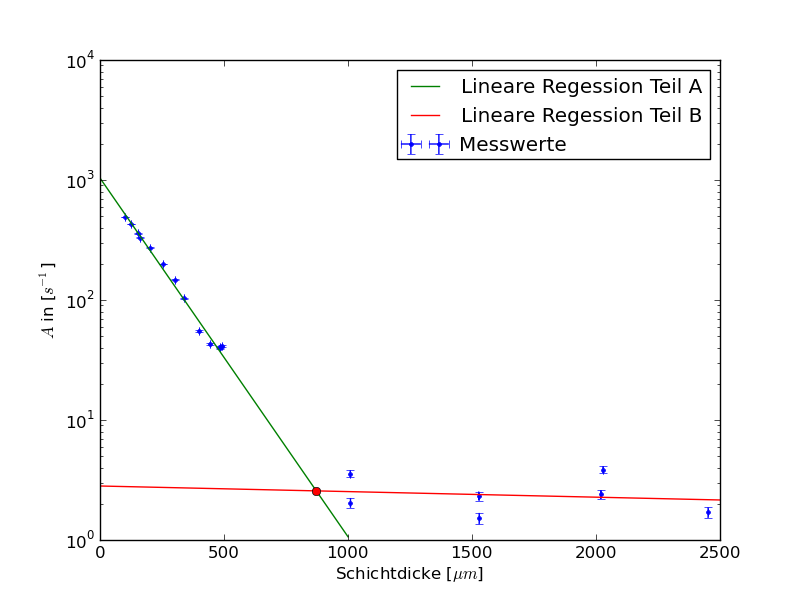
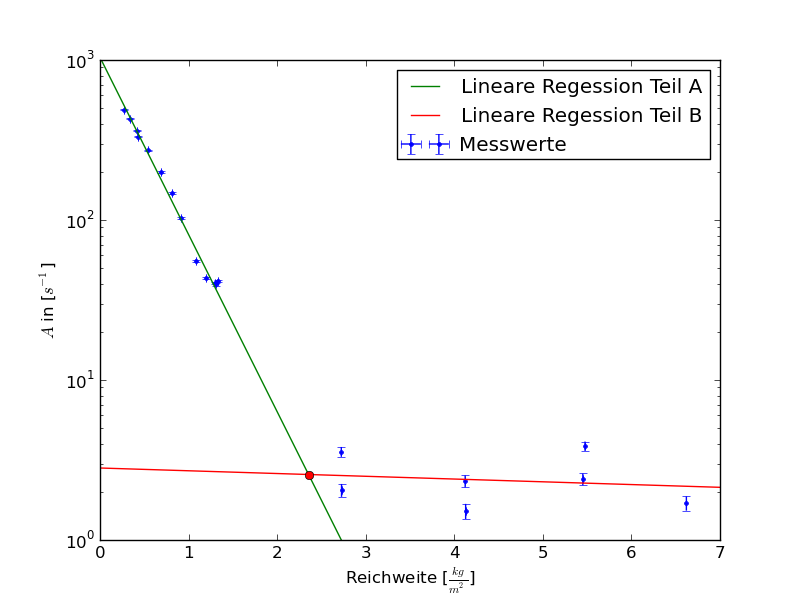
Korrektur

diff --git a/protokoll704.tex b/protokoll704.tex
@@ -40,7 +40,7 @@ germandbls={ß},
 \section{Einleitung}
 In diesem Versuch wird die Wechselwirkung energiereicher Strahlung mit Materie untersucht. Es wird $\gamma$-Strahlung als Beispiel für Photonenstrahlung und $\beta$-Strahlung als Beispiel für Teilchenstrahlung betrachtet.
 \section{Theorie}
-Während es bei der $\gamma$-Strahlung gelingt, ein allgemeingültiges exponentielles Absorptionsgesetz aufzustellen, ist die Wechselwirkung von $\beta$-Strahlung mit Materie zu vielfältig für eine einfache Gesetzmäßigkeit. Im Gegensatz zur $\gamma$-Strahlung treten bei den schnellen Elektronen meist eine Vielzahl von Wechselwirkungen auf, bis die gesamte kinetische Energie der Teilchen umgewandelt wurde. Ein allgemeingültiges Absorptionsgesetz für die $\gamma$-Strahlung zu formulieren ist für den Umfang dieses Versuches zu kompliziert. Stattdessen soll hier die sogenannte Reichweite mit einem einfachen Messverfahren untersucht werden.
+Während es bei der $\gamma$-Strahlung gelingt, ein allgemeingültiges exponentielles Absorptionsgesetz aufzustellen, ist die Wechselwirkung von $\beta$-Strahlung mit Materie zu vielfältig für eine einfache Gesetzmäßigkeit. Im Gegensatz zur $\gamma$-Strahlung treten bei den schnellen Elektronen meist eine Vielzahl von Wechselwirkungen auf, bis die gesamte kinetische Energie der Teilchen umgewandelt wurde. Ein allgemeingültiges Absorptionsgesetz für die $\beta$-Strahlung zu formulieren ist für den Umfang dieses Versuches nicht möglich Stattdessen soll hier die sogenannte Reichweite mit einem einfachen Messverfahren bestimmt werden.
 \subsection{$\gamma$-Strahlung}
 \subsubsection{Wirkungsquerschnitt und Absorptionsgesetz}
 Für die Betrachtung der $\gamma$-Strahlung muss zunächst der sogenannte Wirkungsquerschnitt definiert werden. \newline
@@ -72,11 +72,11 @@ Die Berechnung des Wirkungsquerschnittes mit
 \end{equation}
 ist nur eine grobe Annäherung an die Realität.
 \subsubsection{Ursprung und Eigenschaften der $\gamma$-Strahlung}
-Wechseln angeregte Atomkerne in einen energetisch niedrigeren Zustand, wird die freiwerdende Energie als $\gamma$-Quant abgegeben. Bei den $\gamma$-Quanten handelt es sich um keine klassischen Teilchen, analog zum Licht. Die Energieniveaus eines Kerns sind sehr genau definiert, daher stellt das das $\gamma$-Spektrum eines Atomkerns ein Linienspektrum mit extrem scharfen Linien dar.
+Wechseln angeregte Atomkerne in einen energetisch niedrigeren Zustand, wird die freiwerdende Energie als $\gamma$-Quant abgegeben. Bei den $\gamma$-Quanten handelt es sich um keine klassischen Teilchen, sondern um Photonen. Die Energieniveaus eines Kerns sind sehr genau definiert, daher stellt das  $\gamma$-Spektrum eines Atomkerns ein Linienspektrum mit extrem scharfen Linien dar.
 \subsubsection{Wechselwirkung von $\gamma$-Strahlung mit Materie}
 Bei der Wechselwirkung eines $\gamma$-Quants mit Materie können viele Wechselwirkungsprozesse auftreten. Die bei den üblichen Energien wichtigsten Prozesse sind der Photo-Effekt, der Compton-Effekt und die Paarbildung.
 \paragraph{Der Photoeffekt}
-Wenn ein $\gamma$-Quant in Wechselwirkung mit einem Elektron eines Atoms tritt, wird der $\gamma$-Quant vernichtet und das Elektron aus seiner Bindung an den Kern entfernt. Dabei hat das Elektron die kinetische Energie $E_B$. $E_B$ ist die Teilenergie des $\gamma$-Quants, die nicht für das Lösen des Elektrons umgewandelt wurde. Daher tritt der Photoeffekt nicht bei $\gamma$-Quanten mit einer Energie, die kleiner als die Auslöseenergie ist, auf. Bei Anwendung des Impuls-Satzes stellt man fest, dass das Atom einen Teil des Quantenimpulses aufnehmen muss. Daraus folgt, dass die Absorption des Quanten in der innersten Schale und bei schweren Atomen am häufigsten sind. Die durch den Photoeffekt entstehenden Lücken in den Schalen werden durch den Übergang von Elektronen höherer Schalen aufgefüllt, dabei wird ein Röntgenquant oder ein Auger-Elektron emittiert.
+Wenn ein $\gamma$-Quant in Wechselwirkung mit einem Elektron eines Atoms tritt, wird der $\gamma$-Quant vernichtet und das Elektron aus seiner Bindung an den Kern entfernt. Dabei hat das Elektron die kinetische Energie $E_B$. $E_B$ ist die Teilenergie des $\gamma$-Quants, die nicht für das Lösen des Elektrons umgewandelt wurde. Daher tritt der Photoeffekt nicht bei $\gamma$-Quanten mit einer Energie, die kleiner als die Auslöseenergie ist, auf. Bei Anwendung des Impuls-Satzes stellt man fest, dass das Atom einen Teil des Quantenimpulses aufnehmen muss. Daraus folgt, dass die Absorption des Quants in der innersten Schale und bei schweren Atomen am häufigsten sind. Die durch den Photoeffekt entstehenden Lücken in den Schalen werden durch den Übergang von Elektronen höherer Schalen aufgefüllt, dabei wird ein Röntgenquant oder ein Auger-Elektron emittiert.
 \paragraph{Der Compton-Effekt}
 Beim Compton-Effekt wird der $\gamma$-Quant an einem freien Elektron gestreut. Dieser Effekt verursacht eine Energie- und Richtungsänderung des gestreuten $\gamma$-Quants. Aus dem Energie- und dem Impulssatz folgt zwar, dass der Quant nie seine ganze Energie abgeben kann, trotzdem nimmt die Intensität des $\gamma$-Strahls ab, da der Quant gestreut wird.
 \begin{equation}
@@ -102,7 +102,7 @@ Die Gewichtung der drei hauptsächlich aufgetretenen Effekte ist abhängig von d
 So ist bei den niedrigen Energien der Fotoeffekt dominierend, schon bei mittleren Energien kann er hingegen vernachlässigt werden. Der Compton-Effekt ist bei geringen Energien zwar vorhanden, spielt aber erst bei mittleren Energien eine Rolle. Die Paarbildung setzt erst bei \SI{1}{MeV} ein, ist aber zunächst vernachlässigbar. Bei \SI{100}{MeV}findet fast nur noch die Paarbildung statt.
 \subsection{$\beta$-Strahlung}
 \subsubsection{Entstehung und Eigenschaften der $\beta$-Strahlung}
-$\beta$-Strahlung besteht aus positiven oder negativen Elektronen mit hoher kinetischer Energie. Diese Elektronen werden von Atomkernen mit einer instabilen Anzahl von Protonen oder Neutronen emittiert. Zusätzlich zu dem Elektron wird ein Antineutrino $\overline{\nu}_e$ bzw. das Neutrino $\nu_e$ emittiert. Da die Energie, die bei der Kernumwandlung frei wird, statistisch auf das Elektron, das Neutrino und auf den Rückstoßkern verteilt wird, ist das Spektrum eines $\beta$-Strahlers kontinuierlich. Die bei der Kernwandlung freigewordene Energie entspricht dabei der Maximalenergie $E_{max}$ des Elektrons. Durch das emittierte (Anti-)Neutrino wird die Einhaltung aller Erhaltungssätze gewährleistet.
+$\beta$-Strahlung besteht aus Elektronen und Positronen mit hoher kinetischer Energie. Diese Elektronen werden von Atomkernen mit einer instabilen Anzahl von Protonen oder Neutronen emittiert. Zusätzlich zu dem Elektron wird ein Antineutrino $\overline{\nu}_e$ bzw. das Neutrino $\nu_e$ emittiert. Da die Energie, die bei der Kernumwandlung frei wird, statistisch auf das Elektron, das Neutrino und auf den Rückstoßkern verteilt wird, ist das Spektrum eines $\beta$-Strahlers kontinuierlich. Die bei der Kernwandlung freigewordene Energie entspricht dabei der Maximalenergie $E_{max}$ des Elektrons. Durch das emittierte (Anti-)Neutrino wird die Einhaltung aller Erhaltungssätze gewährleistet.
 \subsubsection{Wechselwirkung von $\beta$-Strahlung mit Materie}
 Aufgrund ihrer Ladung und ihrer im Vergleich zu anderen Teilchen geringen Masse ist ein $\beta$-Teilchen für sehr viele Wechselwirkungen verantwortlich. Es treten vor allem drei Prozesse auf, die im Folgenden näher erläutert werden.
 \paragraph{Elastische Streuung am Atomkern}
@@ -156,7 +156,7 @@ Bevor die Probe eingesetzt wird, wird zunächst die Hintergrundstrahlung gemesse
 Um eine geringere Strahlenbelastung zu erreichen, misst jede Praktikumsgruppe nur eine Strahlenart. Hier wird die $\beta$-Strahlung gemessen. Die Messwerte zur $\gamma$-Strahlung werden von unserer Partnergruppe bereitgestellt.
 \section{Auswertung}
 \subsection{Bestimmung der Messungenauigkeiten der Zählraten}
-Da es sich beim radioaktiven Zerfall um einen statistischen Prozess handelt, soll hier die Berechnung der Messunsicherheiten noch einmal behandelt. Der Zerfall der Kerne lässt sich durch eine Poisson-Verteilung beschreiben. Daher beträgt der statistische Fehler der gemessenen Werte
+Da es sich beim radioaktiven Zerfall um einen statistischen Prozess handelt, soll hier die Berechnung der Messunsicherheiten noch einmal behandelt werden. Der Zerfall der Kerne lässt sich durch eine Poisson-Verteilung beschreiben. Daher beträgt der statistische Fehler der gemessenen Werte
 \begin{equation}
 \Delta N = \sqrt{N}.
 \end{equation} 
@@ -167,7 +167,16 @@ Weil sich die Messapparatur nicht komplett abschirmen lässt, ist der sogenannte
 Diese Größe wird im Folgenden in den Tabellen und in den Diagrammen (mittels Fehlerbalken) als Messunsicherheit der angegeben Aktivitäten angegeben. 
 \paragraph{Anmerkung} Die Berechnung dieser Fehler, sowie die Erstellung der Diagramme und die lineare Ausgleichsrechnung wurden mit \textsc{Python} durchgeführt.  
 \subsection{Bestimmung des Absorptionskoeffizienten $\mu$ von $\gamma$-Strahlung}
-Die Absorptionskurven wurden jeweils für eine Schicht aus Kupfer und einer Schicht aus Blei aufgenommen. Die Tabellen 1 und 2 enthalten die über einen Zeitraum von 
+Die Absorptionskurven wurden jeweils für eine Schicht aus Kupfer und einer Schicht aus Blei aufgenommen. Zuvor wurde der Nulleffekt 
+\[
+N_0 = 165
+\]
+über einen Zeitraum von
+\[
+\Delta t_o = \SI{900}{\second}
+\]
+gemessen.
+Die Tabellen 1 und 2 enthalten die über einen Zeitraum von 
 \[
 \Delta t_{Cu} = \SI{300}{\second}
 \]
@@ -177,7 +186,7 @@ für Kupfer und
 \]
 für das Blei-Target gemessenen Werte und die entsprechenden Zählraten
 \[
-A = \frac{N}{\Delta t} - A_0.
+A = \frac{N}{\Delta t} - \frac{N_0}{t_0}.
 \]
 In den Abbildungen \ref{abb_gamma1_lin} und \ref{abb_gamma2_lin} sind die Absorptionskurven für die jeweiligen Metalle linear aufgetragen. 
 \begin{figure}[H]
@@ -208,7 +217,7 @@ In den Abbildungen \ref{abb_gamma1_lin} und \ref{abb_gamma2_lin} sind die Absorp
 \noindent
 Zur Berechnung der Absorptionskoeffizienten wurden diese Werte auch halb-logarithmisch aufgetragen (Abbildungen \ref{abb_gamma1_log}  und \ref{abb_gamma2_log}) und eine lineare Ausgleichsrechnung 
 \[
-\ln{A} = \mu \cdot d + \ln{A(0)}
+\ln{A} = -\mu \cdot d + \ln{A(0)}
 \]
 durchgeführt. Die folgenden Werte wurden bestimmt:
 \begin{table}[h]
@@ -219,7 +228,7 @@ durchgeführt. Die folgenden Werte wurden bestimmt:
 	Material & $\frac{\mu}{\si{\meter^{-1}}} $& $\ln{A(0)}$ \\
  \midrule 
  	Cu & \num{44.6+-0.9} & \num{3.529+-0.011}\\
-	Pb & \num{-05.3+-1.3}  & \num{2.430+-0.027}\\
+	Pb & \num{105.3+-1.3 }  & \num{2.430+-0.027}\\
 
 \bottomrule
 \end{tabular}
@@ -263,7 +272,10 @@ gemessen. Die Ergebnisse, sowie die daraus berechnete Zählrate
 \[
 A = \frac{N}{\Delta t}
 \]
-befinden sich in Tabelle \ref{tab_beta}. In Abbildung \ref{abb_beta} werden diese Daten halb-logarithmisch aufgetragen. Es zeigt sich der zu erwartende Kurvenverlauf. 
+befinden sich in Tabelle \ref{tab_beta}. Aus der Schichtdicke $d$ wird die so genannte Reichweite
+\[
+R= \rho\cdot d
+\]berechnet. Die Dichte von Aluminium beträgt \SI{2700}{\kilo\gram\per\meter\cubed}. In Abbildung \ref{abb_beta} wird $A$ gegen $R$ halb-logarithmisch aufgetragen. Es zeigt sich der zu erwartende Kurvenverlauf. 
 \begin{figure}[htp]
 \centering
 \includegraphics[scale=0.85]{/home/martin/Dokumente/SS14/Praktikum/V704/beta_log.png}
@@ -282,20 +294,20 @@ wird jeweils für die ersten 13 Messpunkte sowie für die restlichen Daten ausge
 	\toprule
 	Gruppe & $m$ & $b$\\
 	\midrule
-	A & -6.88+-0.19e+3 & 6.95+-0.06 \\
-	B & -1.1+-2.6e+02 & 1.0+-0.4\\
+	A &-2.55+-0.07& 6.95+-0.06\\
+	B &-0.04+-0.10& 1.0+-0.4\\
 	\bottomrule
 \end{tabular}
 
 \end{table}
 Die X-Koordinate des Schnittpunktes der beiden Ausgleichsgeraden entspricht der maximalen Einringtiefe $R_{Max}$. Hiermit ergibt sich:
 \begin{equation}
-R_{Max} = \frac{b_2-b_1}{m_1-m_2} = \SI{0.87+-0.08}{\milli\meter}.
+R_{Max} = \frac{b_2-b_1}{m_1-m_2} = \SI{ 2.35+-0.21}{\kilo\gram\per\meter\squared}.
 \end{equation}
 
 Aus diesem Wert kann mit Hilfe der empirischen Formel (\ref{10}) bestimmt werden.
 \[
-E_{Max} = 1.92\sqrt{R_{Max}^2+0.22R_{Max}}[\si{\mega\eV}] = \SI{0.0266+-0.0012}{\mega\eV}
+E_{Max} = 1.92\sqrt{R_{Max}^2+0.22R_{Max}}[\si{\mega\eV}] = \SI{0.63+-0.04}{\mega\eV}
 \]
 Der Theoriewert[3] für die Maximalenergie des hier verwendeten Strahlers ${}^{99}$Tc beträgt
 \[
@@ -303,14 +315,14 @@ E_{Max} = \SI{0.314+-0.018}{\mega\eV}.
 \]
 Damit beträgt die relative Abweichung des experimentell ermittelten Werts:
 \[
-\Delta E_{max} = \SI{-6.8}{\percent}
+\Delta E_{max} = \SI{100}{\percent}
 \]
 \section{Diskussion}
 
 Die im ersten Versuchsteil aufgenommen Daten bestätigen die theoretischen Überlegungen zur $\gamma$-Absorption. Die erwartete exponentielle Abhängigkeit von der Schichtdicke $d$ konnte sowohl für Kupfer, als auch für Blei nachgewiesen werden. Dennoch stimmen ermittelten Werte für $\mu$ nicht mit den berechneten Zahlen für den Compton-Absorptionskoeffizienten $\mu_{com}$ überein. Hieraus kann geschlossen werden, dass der Compton-Effekt bei der Absorption von $\gamma$-Strahlung in dem hier Untersuchten Energiebereich eine untergeordnete Rolle spielt. Problematisch sind auch die unterschiedlichen Werte für die Aktivität ohne Target $A(0)$. Diese sollten theoretisch gleich sein, da es bei einer Schichtdicke von $d = \SI{0}{\milli\meter}$ keine Materialabhängigkeit der Aktivität geben dürfte.
 
 \noindent
-Die Ergebnis der Untersuchung mit $\beta$-Strahlung an Aluminium ist mit einer relativen Abweichung von \SI{-6.8}{\percent} mit dem Theoriewert verträglich.
+Die Ergebnis der Untersuchung mit $\beta$-Strahlung an Aluminium liegt mit einer relativen Abweichung von \SI{100}{\percent} in der selben Größenordnung, wie der Theoriewert.
 
 \noindent
 \newpage

diff --git a/beta.py b/beta.py
@@ -7,7 +7,7 @@ from sympy.physics.units import length
 data = genfromtxt("beta_data1.csv", delimiter=',', unpack="true")
 
 N_3 = data[1]
-d_3 = data[0]*1e-6
+d_3 = data[0]*1e-6*2700
 N_0 = 1556
 t_0= 900.0
 t_3 = 60.0
@@ -29,24 +29,26 @@ m_2,b_2 = lin_reg(d_3[13:], log(A_3[13:]))
 
 print " m_1: %s b_1:%s" % (m_1,b_1)
 print " m_2: %s b_2:%s" % (m_2,b_2)
-x_1 = linspace(0,1e-3)
-x_2 = linspace(0,2500e-6)
+x_1 = linspace(0,2.8)
+x_2 = linspace(0,7)
 
 R_max = (b_2-b_1)/(m_1-m_2)
 
-print "R_Max: %s mm " % (R_max*1e3)
-R_max *= 1e2
+print "R_Max: %s m " % (R_max)
+
+R_max*= 0.1
 E_Max = 1.92*(R_max**2+0.22*R_max)**0.5 
-R_max *= 1e-2
+R_max*= 10
 print "E_max : %s MeV" % E_Max
-xlabel("Schichtdicke [$\mu m$]")
+xlabel(r"Reichweite [$\frac{kg}{m^2}$]")
 ylabel("$A$ in [$s^{-1}$]")
+ylim(1,1000)
 
-errorbar(d_3*1e6, A_3, A_3_err,0,'.', label= "Messwerte")
-plot(x_1*1e6,exp( m_1.n*x_1+b_1.n), label= "Lineare Regession Teil A")
-plot(x_2*1e6, exp(m_2.n*x_2+b_2.n), label= "Lineare Regession Teil B")
+errorbar(d_3, A_3, A_3_err,0,'.', label= "Messwerte")
+plot(x_1,exp( m_1.n*x_1+b_1.n), label= "Lineare Regession Teil A")
+plot(x_2, exp(m_2.n*x_2+b_2.n), label= "Lineare Regession Teil B")
 
-plot([R_max.n*1e6], [exp(m_1.n*R_max.n +b_1.n)],'ro', )
+plot([R_max.n], [exp(m_1.n*R_max.n +b_1.n)],'ro', )
 yscale("log")
 
 legend()
@@ -60,4 +62,6 @@ data = [[int(d_3[i]*1e6),ufloat(N_3[i],sqrt(N_3[i])), ufloat(A_3[i], A_3_err[i])
 
 header = [ r"$\frac{d}{\si{\micro\meter}}$",r"$N$" , r"$\frac{A}{\si{\second^{-1}}}$"]
 
-print make_LaTeX_table(array(data), header)
+#print make_LaTeX_table(array(data), header)
+
+print (E_Max-0.314)/0.314

diff --git a/gamma.py b/gamma.py
@@ -19,12 +19,11 @@ def fehler(N,N_0,t,t_0):
 def mu_theo(Z, M, rho):
     r_e = 2.82e-15
     E_gamma = 0.662e6 * electron_volt
-    N_L = N_A
     eps = E_gamma/(c**2*m_e)
-    print eps
-    sigma = 2 * pi * r_e**2 *((1+eps)/eps**2 *(2*(1+eps)/(1+2*eps)-1/eps*log(1+2*eps)+0.5/eps*log(1+2*eps)- (1+3*eps)/(1+2*eps)**2))
-    print sigma
-    return Z*N_L*rho*sigma/M
+    bracket1 = 2*(1.0+eps)/(1.0+2*eps)- log(1+2*eps)/eps
+    bracket2 = ((1+eps)/eps**2)*bracket1 + 0.5*log(1+2*eps)/eps - (1+3*eps)/(1+2*eps)**2
+    sigma = 2*pi*r_e**2*bracket2
+    return (Z*N_A*rho*sigma)/M
 t_0 = 900.0 
 t_1 = 300.0
 t_2 = 100.0
@@ -69,7 +68,7 @@ savefig("gamma1_log.png")
 #Latex Tabelle erzeugen
 
 data = array([[int(d_1[i]*1e3),int(N_1[i]), ufloat(A_1[i]-A_0, A_1_err[i]) ]for i in range(7)])
-print make_LaTeX_table(data,  [r'{$\frac{d}{\si{\milli\meter}}$} ',r'$N$' ,r'{ $\frac{A-A_0}{\si{\second^{-1}}}$ }'])
+#print make_LaTeX_table(data,  [r'{$\frac{d}{\si{\milli\meter}}$} ',r'$N$' ,r'{ $\frac{A-A_0}{\si{\second^{-1}}}$ }'])
 
 
 
@@ -118,12 +117,12 @@ d = linspace(0, 0.035)
 plot(d,exp(m_1.n * d+b_1.n),label = "Lineare Regression")
 xlim(0,0.035)
 legend()
-savefig("gamma2_log.png")
+show()
 
 #Latex Tabelle erzeugen
 
 data = array([[int(d_2[i]*1e3),int(N_2[i]), ufloat(A_2[i]-A_0, A_2_err[i]) ]for i in range(7)])
-print make_LaTeX_table(data,  [r'{$\frac{d}{\si{\milli\meter}}$} ',r'$N$' ,r'{ $\frac{A-A_0}{\si{\second^{-1}}}$ }'])
+#print make_LaTeX_table(data,  [r'{$\frac{d}{\si{\milli\meter}}$} ',r'$N$' ,r'{ $\frac{A-A_0}{\si{\second^{-1}}}$ }'])
 
 
 
